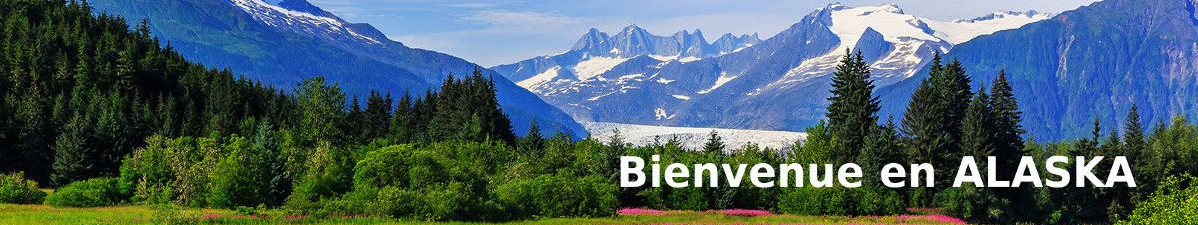
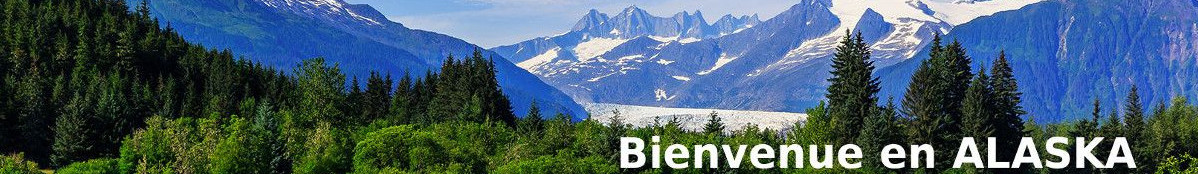
Changement image bandeau post

diff --git a/Web/css/master.css b/Web/css/master.css
@@ -38,15 +38,58 @@
   max-width: 25em;
 }
 
-#bandeau {
-  border-radius: 2px 20px;
-}
-
 .underline {
   text-decoration: underline;
 }
 
 /* image modification */
+
+.image_bandeau img {
+  position: relative;
+  z-index: 1;
+  border-radius: 2px 20px;
+  -webkit-filter: blur(3px);
+  filter: blur(3px);
+  -webkit-transition: .3s ease-in-out;
+  transition: .3s ease-in-out;
+}
+
+.image_bandeau:hover img {
+  -webkit-filter: blur(0);
+  filter: blur(0);
+}
+
+.image_bandeau span h2 {
+  z-index: 2;
+  background: transparent;
+  visibility: hidden;
+  position: absolute;
+}
+
+.image_bandeau span p {
+  z-index: 2;
+  background: transparent;
+  visibility: hidden;
+  position: absolute;
+}
+
+.image_bandeau:hover span h2 {
+  position: absolute;
+  color: white;
+  top: 100px;
+  left: 800px;
+  visibility: visible;
+  transition: 1s ease-in-out;
+}
+
+.image_bandeau:hover span p {
+  position: absolute;
+  color: white;
+  top: 150px;
+  left: 800px;
+  visibility: visible;
+  transition: 1s ease-in-out;
+}
 
 #Map_Alaska {
   max-height: 250px;
